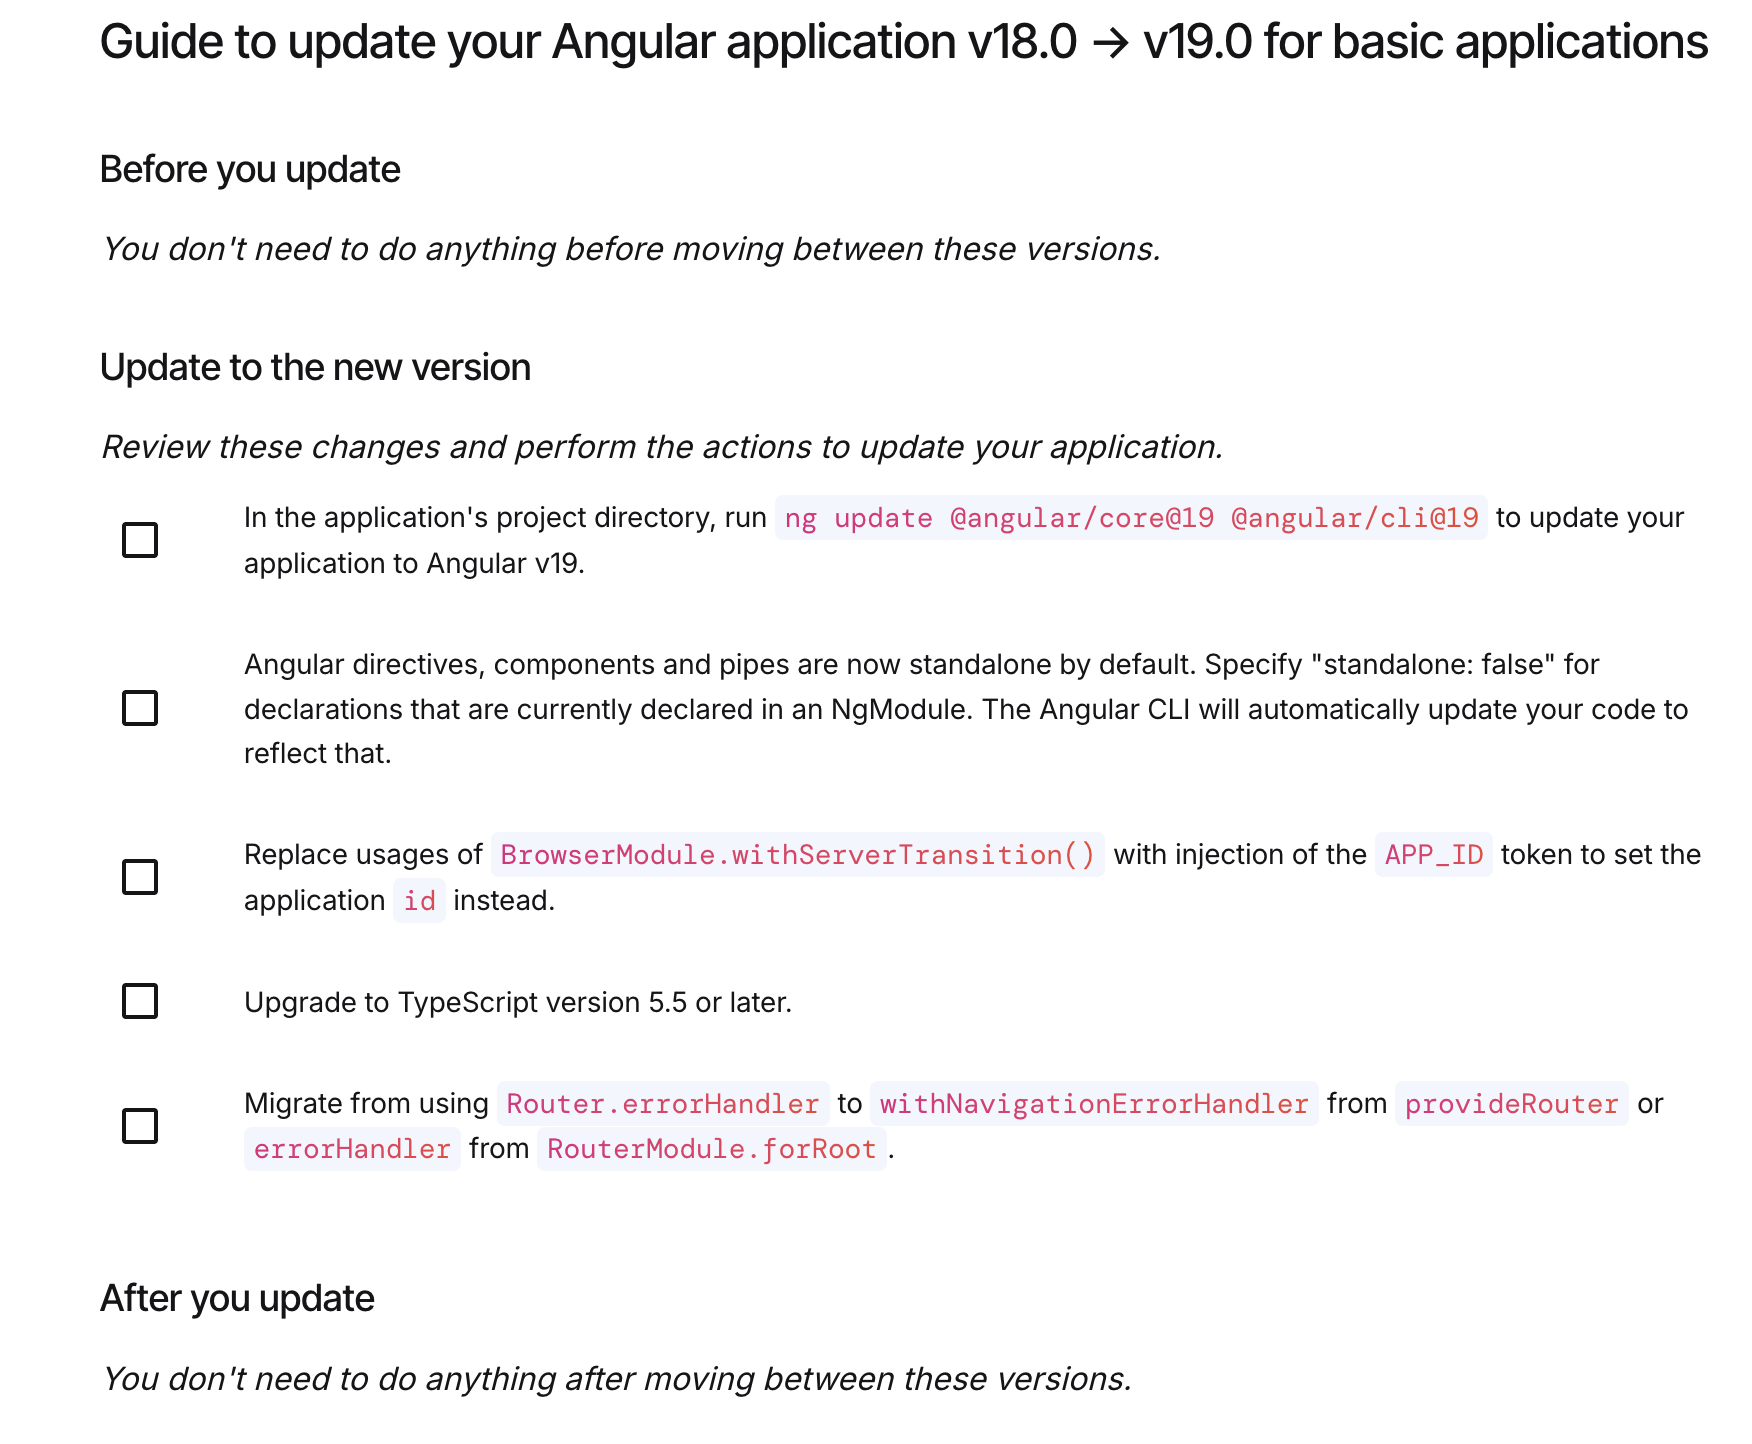
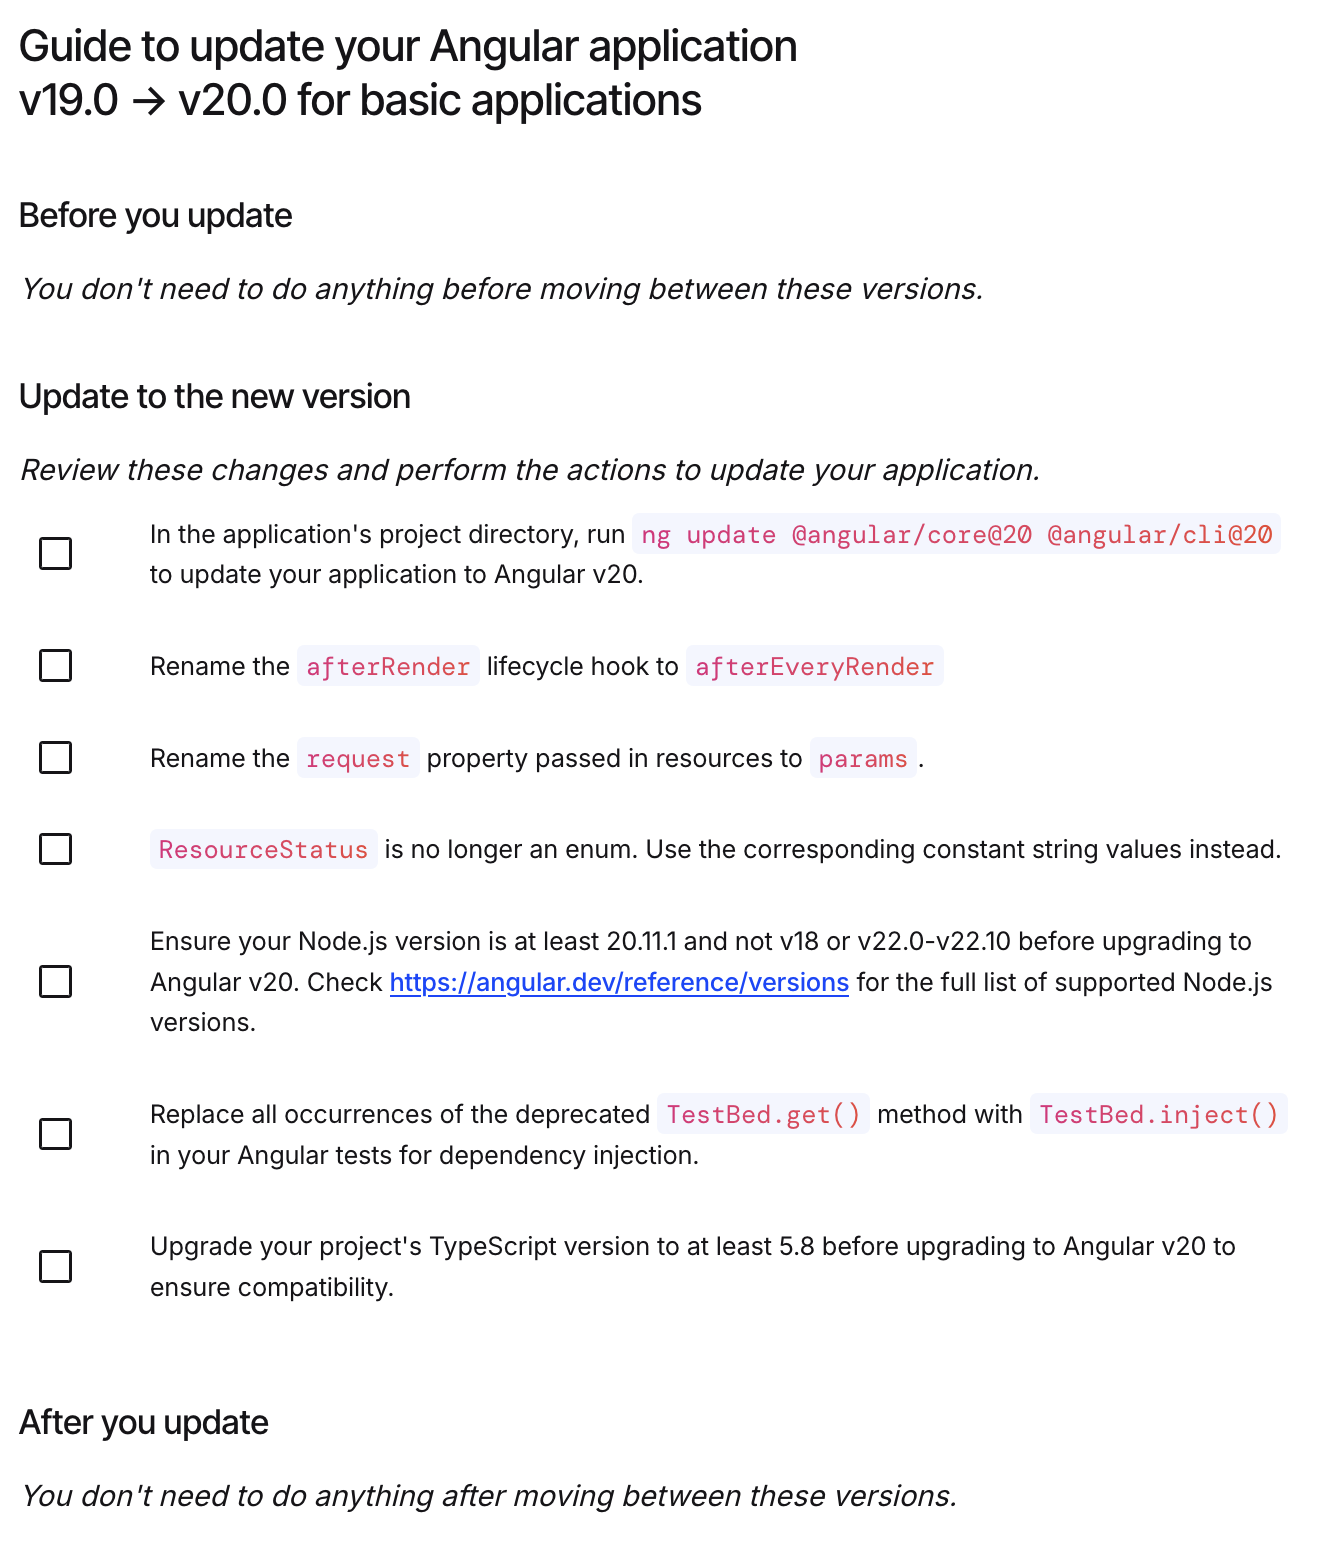
add migrate v20

diff --git a/articles/90b2b35d784fec.md b/articles/90b2b35d784fec.md
@@ -14,22 +14,22 @@ published: true
 
 - [`公式ガイド`](https://angular.dev/update-guide) で、手順を確認
 - メジャーバージョンは、**必ず一つずつ** 上げる
-  - ex. Angular v18.x => Angular v19.x
+  - ex. Angular v19.x => Angular v20.x
 
 # アップデート手順
 
-- [公式ガイド](https://angular.dev/update-guide?v=18.0-19.0&l=1) を参照
+- [公式ガイド](https://angular.dev/update-guide?v=19.0-20.0&l=1) を参照
 - バージョンを指定
   - 現在のプロダクトのバージョンとアップデートする **必ず一つ上** のバージョンを指定します。
     - https://angular.dev/update-guide
-    - **ex. Angular v18.x => Angular v19.x**
+    - **ex. Angular v19.x => Angular v20.x**
 - App Complexity（複雑度）の指定
   - Basic を選んでおけば、基本的に大丈夫です。
 - Other Dependencies の指定
   - 該当する項目をチェックします
 
-![ex. Angular v18.x => Angular v19.x](/images/select.version.png)
-_ex. Angular v18.x => Angular v19.x_
+![ex. Angular v19.x => Angular v20.x](/images/select.version.png)
+_ex. Angular v19.x => Angular v20.x_
 
 Show me how to update! をクリックすると下図手順が表示されます。
 
@@ -43,7 +43,7 @@ Before Updating
 _There aren't currently any changes needed before moving between these versions._
 :::
 
-Angular v18.x => Angular v19.x の場合、**_基本的には_**アップデート前に実施する作業はありません。
+Angular v19.x => Angular v20.x の場合、**_基本的には_**アップデート前に実施する作業はありません。
 
 ### During the Update / アップデートの実施
 
@@ -106,21 +106,21 @@ $ yarn start
 $ ng update @angular/core@latest @angular/cli@latest
 ```
 
-### v19 のマイナーバージョンまで指定して、アップデートする場合
+### v20 のマイナーバージョンまで指定して、アップデートする場合
 
 ```sh
-$ ng update @angular/core@v19.0.0 @angular/cli@v19.0.0
+$ ng update @angular/core@v20.0.0 @angular/cli@v20.0.0
 ```
 
 ### Angular CDK, Angular Materail をアップデートする場合
 
 ```sh
-$ ng update @angular/cdk@v19.x @angular/material@v19.x
+$ ng update @angular/cdk@v20.x @angular/material@v20.x
 ```
 
 ### 先行バージョンで、アップデートする場合
 
-- 先行バージョン（ex v18.1.0-next.0 or  v18.1.0-rc.0）ですので、参考まで
+- 先行バージョン（ex v20.1.0-next.0 or  v20.1.0-rc.0）ですので、参考まで
 - --force オプションをつけないと上手く行かないことがあります
 
 ```sh
@@ -148,6 +148,7 @@ $ ng update @angular/cli --next --force
 あくまでも参考程度で、御覧ください。
 :::
 
+- [v19.x => v20.x ファイル差分](https://github.com/gurezo/ng-migrate-sample/pull/100/files)
 - [v18.x => v19.x ファイル差分](https://github.com/gurezo/ng-migrate-sample/pull/99/files)
 - [v17.x => v18.x ファイル差分](https://github.com/gurezo/ng-migrate-sample/pull/98/files)
 - [v16.x => v17.x ファイル差分](https://github.com/gurezo/ng-migrate-sample/pull/97/files)
@@ -242,7 +243,7 @@ Run npm install to install new versions.
   ```sh
   $ mkdir test-project
   $ cd test-project
-  $ npm i @angular/cli@v19.x --no-save
+  $ npm i @angular/cli@v20.x --no-save
   ```
 
 #### 作成したディレクトリに Angular 新規プロジェクトを作成
